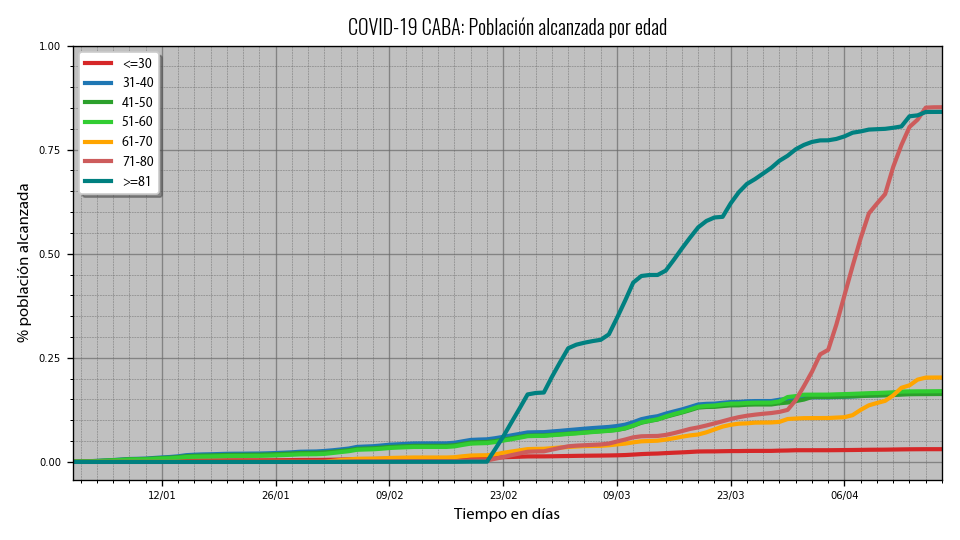
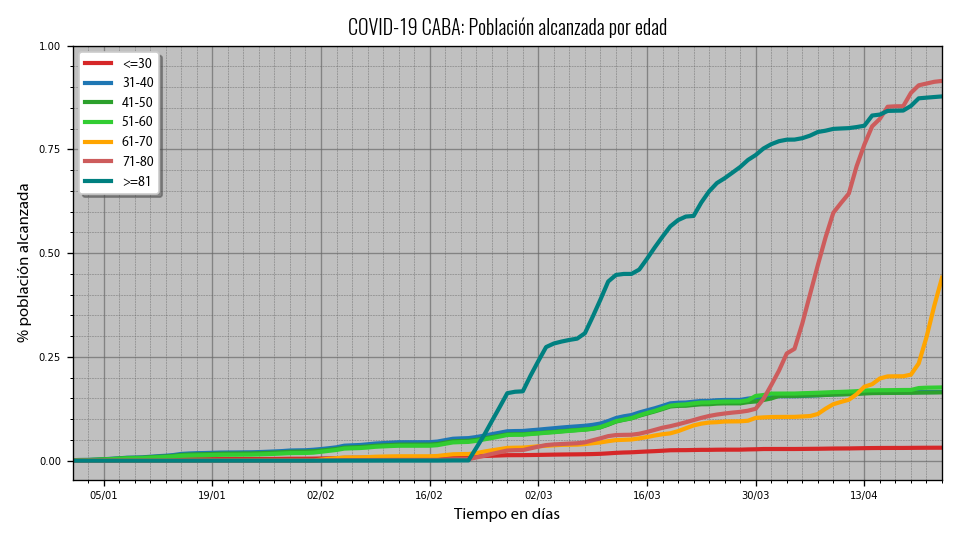
Updating charts...

diff --git a/p_cases.py b/p_cases.py
@@ -39,7 +39,7 @@ def plot_total_cases(y_minA, y_minB, ticks_interval_A, ticks_divisor_A, ticks_in
 	cc.build_legend()
 	s = plt.ylim()
 	xaxis = plt.xlim()
-	cc.grid_and_ticks(y_minA, s[1] * 1.1, ticks_interval_A, ticks_divisor_A, 0)
+	cc.grid_and_ticks(y_minA, s[1], ticks_interval_A, ticks_divisor_A, 0)
 	cc.ticks_locator(cc.e_week_interval)
 	plt.gca().xaxis.set_ticklabels([])
 	deaths = plt.subplot2grid((2, 1), (1, 0))
@@ -50,7 +50,7 @@ def plot_total_cases(y_minA, y_minB, ticks_interval_A, ticks_divisor_A, ticks_in
 	cc.build_axis_texts(deaths, chart_texts[0], chart_texts[1], chart_texts[2])
 	s = plt.ylim()
 	plt.xlim(xaxis[0], xaxis[1])
-	cc.grid_and_ticks(y_minB, s[1] * 1.1, ticks_interval_B, ticks_divisor_B, 1)
+	cc.grid_and_ticks(y_minB, s[1], ticks_interval_B, ticks_divisor_B, 1)
 	cc.ticks_locator(cc.e_week_interval)
 	cc.save_plot("totalcasesanddeaths_cum", f, "E")
 
@@ -66,7 +66,7 @@ def plot_total_avg(y_minA, y_minB, ticks_interval_A, ticks_divisor_A, ticks_inte
 	cc.build_legend()
 	s = plt.ylim()
 	xaxis = plt.xlim()
-	cc.grid_and_ticks(y_minA, s[1] * 1.1, ticks_interval_A, ticks_divisor_A, 0)
+	cc.grid_and_ticks(y_minA, s[1], ticks_interval_A, ticks_divisor_A, 0)
 	cc.ticks_locator(cc.e_week_interval)
 	plt.gca().xaxis.set_ticklabels([])
 	deaths = plt.subplot2grid((2, 1), (1, 0))
@@ -77,7 +77,7 @@ def plot_total_avg(y_minA, y_minB, ticks_interval_A, ticks_divisor_A, ticks_inte
 	cc.build_axis_texts(deaths, chart_texts[0], chart_texts[1], chart_texts[2])
 	s = plt.ylim()
 	plt.xlim(xaxis[0], xaxis[1])
-	cc.grid_and_ticks(y_minB, s[1] * 1.1, ticks_interval_B, ticks_divisor_B, 0)
+	cc.grid_and_ticks(y_minB, s[1], ticks_interval_B, ticks_divisor_B, 0)
 	cc.ticks_locator(cc.e_week_interval)
 	cc.save_plot("totalcasesanddeaths_avg", f, "E")
 
@@ -92,7 +92,7 @@ def plot_cases_by_age_avg(y_minA, y_minB, ticks_interval_A, ticks_divisor_A, tic
 	cc.build_legend()
 	s = plt.ylim()
 	xaxis = plt.xlim()
-	cc.grid_and_ticks(y_minA, s[1] * 1.1, ticks_interval_A, ticks_divisor_A, 0)
+	cc.grid_and_ticks(y_minA, s[1], ticks_interval_A, ticks_divisor_A, 0)
 	cc.ticks_locator(cc.week_interval)
 	plt.gca().xaxis.set_ticklabels([])
 	deaths = plt.subplot2grid((2, 1), (1, 0))
@@ -102,7 +102,7 @@ def plot_cases_by_age_avg(y_minA, y_minB, ticks_interval_A, ticks_divisor_A, tic
 	cc.build_texts(chart_texts[0], chart_texts[1], chart_texts[2])
 	s = plt.ylim()
 	plt.xlim(xaxis[0], xaxis[1])
-	cc.grid_and_ticks(y_minB, s[1] * 1.1, ticks_interval_B, ticks_divisor_B, 0)
+	cc.grid_and_ticks(y_minB, s[1], ticks_interval_B, ticks_divisor_B, 0)
 	cc.ticks_locator(cc.week_interval)
 	cc.save_plot("totalcasesanddeathsbyage_avg", f, "E")
 
@@ -115,7 +115,7 @@ def plot_delay_evol(y_minA, y_minB, ticks_interval_A, ticks_divisor_A, ticks_int
 	cc.build_axis_texts(confirmed, chart_texts[0], "", chart_texts[2])
 	s = plt.ylim()
 	xaxis = plt.xlim()
-	cc.grid_and_ticks(y_minA, s[1] * 1.1, ticks_interval_A, ticks_divisor_A, 0)
+	cc.grid_and_ticks(y_minA, s[1], ticks_interval_A, ticks_divisor_A, 0)
 	cc.ticks_locator(cc.week_interval)
 	plt.gca().xaxis.set_ticklabels([])
 	deaths = plt.subplot2grid((2, 1), (1, 0))
@@ -124,7 +124,7 @@ def plot_delay_evol(y_minA, y_minB, ticks_interval_A, ticks_divisor_A, ticks_int
 	cc.build_axis_texts(deaths, chart_texts[0], chart_texts[1], chart_texts[2])
 	s = plt.ylim()
 	plt.xlim(xaxis[0], xaxis[1])
-	cc.grid_and_ticks(y_minB, s[1] * 1.1, ticks_interval_B, ticks_divisor_B, 0)
+	cc.grid_and_ticks(y_minB, s[1], ticks_interval_B, ticks_divisor_B, 0)
 	cc.ticks_locator(cc.week_interval)
 	cc.save_plot("confirmedanddeathsdelays_avg", f, "E")
 

diff --git a/p_analysis.py b/p_analysis.py
@@ -33,7 +33,7 @@ def plot_deathrate_by_sex_and_age(y_min_a, y_min_b, ticks_interval_A, ticks_inte
 	cc.build_legend()
 	xaxis = plt.xlim()
 	s = plt.ylim()
-	cc.grid_and_ticks(y_min_a, s[1] * 1.1, ticks_interval_A, 1, 2)
+	cc.grid_and_ticks(y_min_a, s[1], ticks_interval_A, 1, 2)
 	cc.ticks_locator(cc.e_week_interval)
 	plt.gca().xaxis.set_ticklabels([])
 	byagerate = plt.subplot2grid((2, 1), (1, 0))
@@ -44,7 +44,7 @@ def plot_deathrate_by_sex_and_age(y_min_a, y_min_b, ticks_interval_A, ticks_inte
 	cc.build_legend()
 	plt.xlim(xaxis[0], xaxis[1])
 	s = plt.ylim()
-	cc.grid_and_ticks(y_min_b, s[1] * 1.1, ticks_interval_B, 1, 2)
+	cc.grid_and_ticks(y_min_b, s[1], ticks_interval_B, 1, 2)
 	cc.ticks_locator(cc.e_week_interval)
 	cc.save_plot("deathratebysexage_evolution", f, "A")
 
@@ -57,7 +57,7 @@ def plot_deathrate_by_age(y_min, ticks_interval):
 	cc.build_axis_texts(byagerate, chart_texts[0], chart_texts[1], chart_texts[2])
 	cc.build_legend()
 	s = plt.ylim()
-	cc.grid_and_ticks(y_min, s[1] * 1.1, ticks_interval, 1, 2)
+	cc.grid_and_ticks(y_min, s[1], ticks_interval, 1, 2)
 	cc.ticks_locator(cc.week_interval)
 	cc.save_plot("deathratebyage_evolution", f, "A")
 
@@ -71,7 +71,7 @@ def plot_estimation(y_min_a, y_min_b, ticks_interval_A, ticks_divisor_A, ticks_i
 	cc.build_axis_texts(cumestimation, chart_texts[0], "", chart_texts[2])
 	xaxis = plt.xlim()
 	s = plt.ylim()
-	cc.grid_and_ticks(y_min_a, s[1] * 1.1, ticks_interval_A, ticks_divisor_A, 1)
+	cc.grid_and_ticks(y_min_a, s[1], ticks_interval_A, ticks_divisor_A, 1)
 	cc.ticks_locator(cc.e_week_interval)
 	plt.gca().xaxis.set_ticklabels([])
 	knownratio = plt.subplot2grid((2, 1), (1, 0))
@@ -80,7 +80,7 @@ def plot_estimation(y_min_a, y_min_b, ticks_interval_A, ticks_divisor_A, ticks_i
 	cc.build_axis_texts(knownratio, chart_texts[0], chart_texts[1], chart_texts[2])
 	plt.xlim(xaxis[0], xaxis[1])
 	s = plt.ylim()
-	cc.grid_and_ticks(y_min_b, s[1] * 1.1, ticks_interval_B, ticks_divisor_B, 2)
+	cc.grid_and_ticks(y_min_b, s[1], ticks_interval_B, ticks_divisor_B, 2)
 	cc.ticks_locator(cc.e_week_interval)
 	cc.save_plot("estimation_cum", f, "A")
 
@@ -95,7 +95,7 @@ def plot_estimation_avg(y_min_a, y_min_b, ticks_interval_A, ticks_divisor_A, tic
 	cc.build_axis_texts(estimationavg, chart_texts[0], "", chart_texts[2])
 	xaxis = plt.xlim()
 	s = plt.ylim()
-	cc.grid_and_ticks(y_min_a, s[1] * 1.1, ticks_interval_A, ticks_divisor_A, 0)
+	cc.grid_and_ticks(y_min_a, s[1], ticks_interval_A, ticks_divisor_A, 0)
 	cc.ticks_locator(cc.e_week_interval)
 	plt.gca().xaxis.set_ticklabels([])
 	knownratio = plt.subplot2grid((2, 1), (1, 0))
@@ -104,7 +104,7 @@ def plot_estimation_avg(y_min_a, y_min_b, ticks_interval_A, ticks_divisor_A, tic
 	cc.build_axis_texts(knownratio, chart_texts[0], chart_texts[1], chart_texts[2])
 	plt.xlim(xaxis[0], xaxis[1])
 	s = plt.ylim()
-	cc.grid_and_ticks(y_min_b, s[1] * 1.1, ticks_interval_B, ticks_divisor_B, 2)
+	cc.grid_and_ticks(y_min_b, s[1], ticks_interval_B, ticks_divisor_B, 2)
 	cc.ticks_locator(cc.e_week_interval)
 	cc.save_plot("estimation_avg", f, "A")
 

diff --git a/p_vaccinations.py b/p_vaccinations.py
@@ -50,7 +50,7 @@ def plot_total_vac_by_dose(y_min, ticks_interval, ticks_divisor):
 	cc.build_texts(chart_texts[0], chart_texts[1], chart_texts[2])
 	cc.build_legend()
 	s = plt.ylim()
-	cc.grid_and_ticks(y_min, s[1] * 1.1, ticks_interval, ticks_divisor, 0)
+	cc.grid_and_ticks(y_min, s[1], ticks_interval, ticks_divisor, 0)
 	cc.ticks_locator(cc.v_week_interval)
 	cc.save_plot("totalvaccinationsbydose", f, "V")
 
@@ -63,7 +63,7 @@ def plot_doses_by_age(y_min, ticks_interval, ticks_divisor):
 	cc.build_texts(chart_texts[0], chart_texts[1], chart_texts[2])
 	cc.build_legend()
 	s = plt.ylim()
-	cc.grid_and_ticks(y_min, s[1] * 1.1, ticks_interval, ticks_divisor, 0)
+	cc.grid_and_ticks(y_min, s[1], ticks_interval, ticks_divisor, 0)
 	cc.ticks_locator(cc.v_week_interval)
 	cc.save_plot("vaccinationsbyage", f, "V")
 
@@ -76,7 +76,7 @@ def plot_doses_by_age_avg(y_min, ticks_interval, ticks_divisor):
 	cc.build_texts(chart_texts[0], chart_texts[1], chart_texts[2])
 	cc.build_legend()
 	s = plt.ylim()
-	cc.grid_and_ticks(y_min, s[1] * 1.1, ticks_interval, ticks_divisor, 0)
+	cc.grid_and_ticks(y_min, s[1], ticks_interval, ticks_divisor, 0)
 	cc.ticks_locator(cc.v_week_interval)
 	cc.save_plot("vaccinationsbyageavg", f, "V")
 
@@ -89,7 +89,7 @@ def plot_doses_by_vac_avg(y_min, ticks_interval, ticks_divisor):
 	cc.build_texts(chart_texts[0], chart_texts[1], chart_texts[2])
 	cc.build_legend()
 	s = plt.ylim()
-	cc.grid_and_ticks(y_min, s[1] * 1.1, ticks_interval, ticks_divisor, 0)
+	cc.grid_and_ticks(y_min, s[1], ticks_interval, ticks_divisor, 0)
 	cc.ticks_locator(cc.v_week_interval)
 	cc.save_plot("vaccinationsbyvac", f, "V")
 
@@ -102,7 +102,7 @@ def plot_reached_population_by_age(y_min, ticks_interval, ticks_divisor):
 	cc.build_texts(chart_texts[0], chart_texts[1], chart_texts[2])
 	cc.build_legend()
 	s = plt.ylim()
-	cc.grid_and_ticks(y_min, s[1] * 1.1, ticks_interval, ticks_divisor, 2)
+	cc.grid_and_ticks(y_min, s[1], ticks_interval, ticks_divisor, 2)
 	cc.ticks_locator(cc.v_week_interval)
 	cc.save_plot("reachedbyage", f, "V")
 
@@ -116,7 +116,7 @@ def plot_reached_population_by_sex(ticks_interval, ticks_divisor):
 	cc.build_texts(chart_texts[0], chart_texts[1], chart_texts[2])
 	cc.build_legend()
 	s = plt.ylim()
-	min, max = cc.get_simetrical_limits(s[0] * 1.1, s[1] * 1.1)
+	min, max = cc.get_simetrical_limits(s[0] * 1.1, s[1])
 	cc.grid_and_ticks(min, max, ticks_interval, ticks_divisor, 2)
 	cc.ticks_locator(cc.v_week_interval)
 	cc.save_plot("reachedbysex", f, "V")

diff --git a/p_emergencycalls.py b/p_emergencycalls.py
@@ -52,7 +52,7 @@ def plot_calls_ratios(y_min, ticks_interval, ticks_divisor):
 	cc.build_texts(chart_texts[0], chart_texts[1], chart_texts[2])
 	cc.build_legend()
 	s = plt.ylim()
-	cc.grid_and_ticks(y_min, s[1] * 1.1, ticks_interval, ticks_divisor, 2)
+	cc.grid_and_ticks(y_min, s[1], ticks_interval, ticks_divisor, 2)
 	cc.ticks_locator(cc.week_interval)
 	cc.save_plot("callsratios", f, "C")
 
@@ -66,7 +66,7 @@ def plot_calls_ratios_avg(y_min, ticks_interval, ticks_divisor):
 	cc.build_texts(chart_texts[0], chart_texts[1], chart_texts[2])
 	cc.build_legend()
 	s = plt.ylim()
-	cc.grid_and_ticks(y_min, s[1] * 1.1, ticks_interval, ticks_divisor, 2)
+	cc.grid_and_ticks(y_min, s[1], ticks_interval, ticks_divisor, 2)
 	cc.ticks_locator(cc.week_interval)
 	cc.save_plot("callsratiosavg", f, "C")
 

diff --git a/p_trigger.py b/p_trigger.py
@@ -29,8 +29,8 @@ cases.plot_delay_evol(0, 0, 1, 1, 5, 1)
 cases.plot_cases_by_age_avg(0, 0, 250, 1, 5, 1)
 
 #Building analysis charts
-sis.plot_estimation_avg(0, 0, 3000, 1000, 0.25, 1)
-sis.plot_estimation(0, 0, 500000, 1000000, 0.05, 1)
+sis.plot_estimation_avg(0, 0, 2000, 1000, 0.25, 1)
+sis.plot_estimation(0, 0, 500000, 1000000, 0.1, 1)
 sis.plot_deathrate_by_sex_and_age(0,0,0.05,0.25)
 sis.plot_deathrate_by_age(0, 0.05)
 sis.plot_age_ratios(0, 0, 0.3, 0.5, 0.1, 0.25)

diff --git a/chart_config.py b/chart_config.py
@@ -31,7 +31,7 @@ v_start_date = "2021-01-01"
 v_week_interval = 2
 e_start_date = "2020-03-15"
 e_week_interval = 6
-end_date = "2021-04-18"
+end_date = "2021-04-23"
 
 if language == 1:
 	date_format = mdates.DateFormatter("%d/%m")
